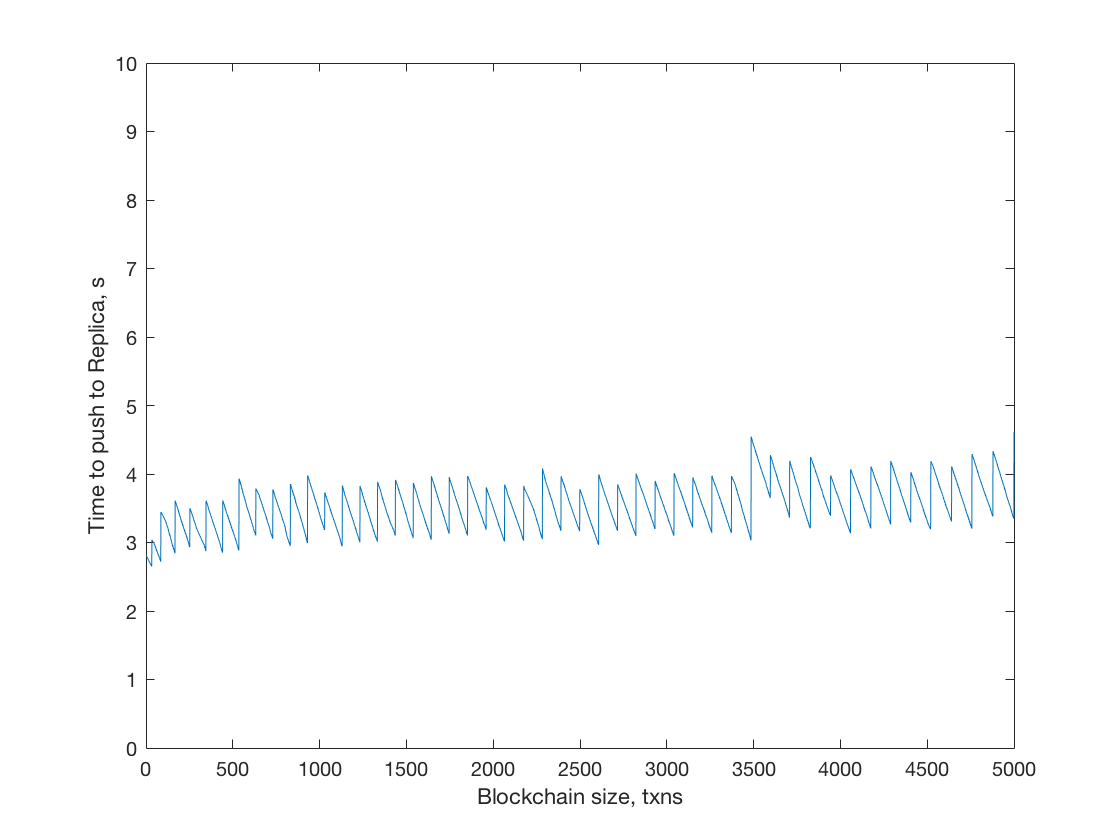
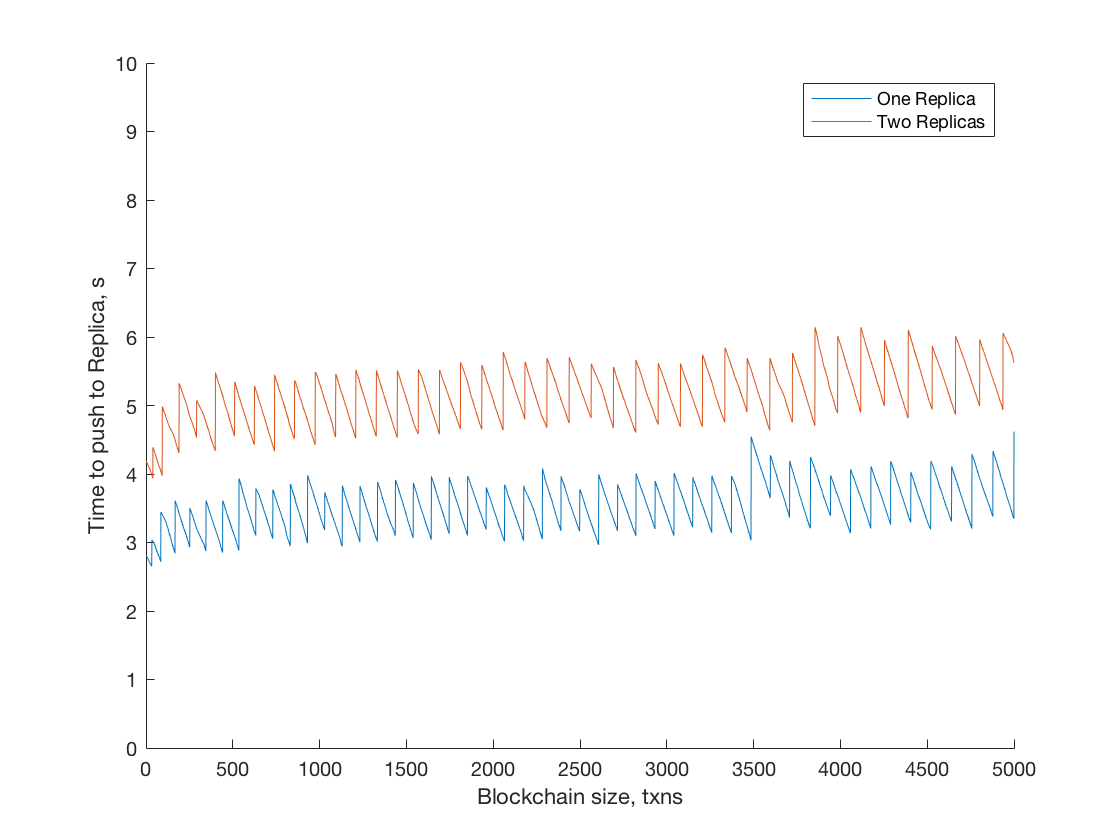
Add extra replica plot to evaluation

Changed region(s): [[0.125, 0.4024, 0.9062, 0.5571], [0.7812, 0.0929, 0.875, 0.1548]]

diff --git a/Building_a_Blockchain_Library_for_OCaml.tex b/Building_a_Blockchain_Library_for_OCaml.tex
@@ -1299,8 +1299,10 @@ let rec start_leader () =
 	\end{figure}
 	Unfortunately the latencies of pushing to a remote repository also increase with the size of the blockchain, as is the case for pulling.
 	However, this is again a problem that is minor and would not exist with a better synchronisation protocol. 
-	Importantly, the additional latencies are around 3s which is small and would be an acceptable waiting time for most applications.
-	In this case, the system's latencies are still well within the success criteria of being of the order of magnitude of seconds.\\
+	Importantly, for the case where there is one Replica, the additional latencies are around 3s which is small and would be an acceptable waiting time for most applications.
+	In this case, the system's latencies are still well within the success criteria of being of the order of magnitude of seconds.
+	Figure \cite{figs:confirmationtimes} also shows that using two Replicas rather than one increases latencies by roughly 1.5s. 
+	I again conclude that this is a very acceptable latency given the success criteria of the project. \\
 
 	Additionally should the use my suggested approach of using a daemon thread to push transactions to replicas, there would be no additional latencies to the Leader's loop cycle and this means that it should in theory be able to sustain exactly the same throughputs as it would without having any replicas.
 	I therefore consider this a successful demonstration of passive Replication and a good starting point for developing a more complex Fault tolerance solution.
